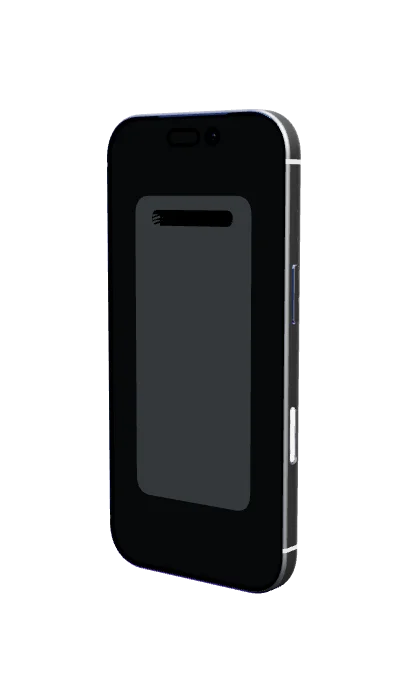
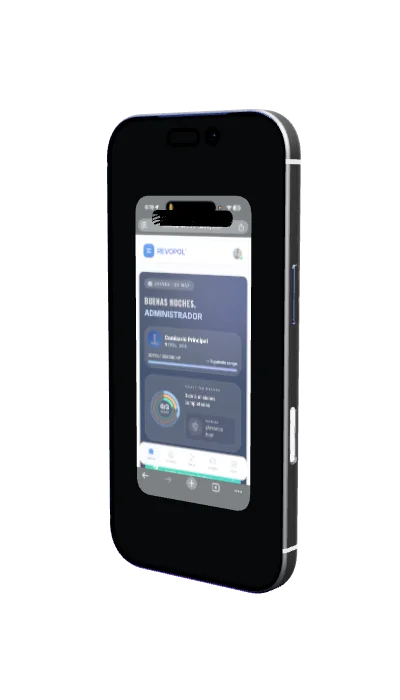
feat: iPhone frames with REAL Revopol campus screenshot — proper UVs and brightness

Changed region(s): [[0.33, 0.27, 0.63, 0.75]]

diff --git a/public/adjust-screen.html b/public/adjust-screen.html
@@ -48,8 +48,7 @@
     camera.position.set(0, 0, 0.42);
     const renderer = new THREE.WebGLRenderer({ antialias: true, alpha: true, preserveDrawingBuffer: true });
     renderer.setSize(viewEl.clientWidth, viewEl.clientHeight);
-    renderer.toneMapping = THREE.ACESFilmicToneMapping;
-    renderer.toneMappingExposure = 2.2;
+    renderer.toneMapping = THREE.NoToneMapping;
     renderer.outputColorSpace = THREE.SRGBColorSpace;
     viewEl.appendChild(renderer.domElement);
 
@@ -63,7 +62,7 @@
 
     const texLoader = new THREE.TextureLoader();
     const campusTex = await new Promise(r => texLoader.load('/campus-real.jpg', r));
-    campusTex.colorSpace = THREE.SRGBColorSpace;
+    // No colorSpace override — let it render as-is
 
     let model, screenPlane, diPlane, screenMat;
 
@@ -102,8 +101,10 @@
       model.rotation.x = 0.12;
       scene.add(model);
 
-      screenMat = new THREE.MeshBasicMaterial({ map: campusTex, toneMapped: false });
-      screenPlane = new THREE.Mesh(new THREE.ShapeGeometry(makeRoundedShape(0.058, 0.125, 0.003)), screenMat);
+      screenMat = new THREE.MeshBasicMaterial({ map: campusTex, toneMapped: false, color: 0xffffff });
+      const initGeo = new THREE.ShapeGeometry(makeRoundedShape(0.058, 0.125, 0.003));
+      fixUVs(initGeo, 0.058, 0.125);
+      screenPlane = new THREE.Mesh(initGeo, screenMat);
       screenPlane.position.set(0, 0, 0.0044);
       model.add(screenPlane);
 
@@ -114,6 +115,16 @@
 
       update();
     });
+
+    function fixUVs(geo, w, h) {
+      const pos = geo.attributes.position;
+      const uvs = new Float32Array(pos.count * 2);
+      for (let i = 0; i < pos.count; i++) {
+        uvs[i*2] = (pos.getX(i) + w/2) / w;
+        uvs[i*2+1] = (pos.getY(i) + h/2) / h;
+      }
+      geo.setAttribute('uv', new THREE.BufferAttribute(uvs, 2));
+    }
 
     function update() {
       if (!screenPlane) return;
@@ -134,7 +145,9 @@
       document.getElementById('vdi').textContent = diy.toFixed(4);
 
       screenPlane.geometry.dispose();
-      screenPlane.geometry = new THREE.ShapeGeometry(makeRoundedShape(w, h, cr));
+      const newGeo = new THREE.ShapeGeometry(makeRoundedShape(w, h, cr));
+      fixUVs(newGeo, w, h);
+      screenPlane.geometry = newGeo;
       screenPlane.position.set(px, py, pz);
 
       diPlane.geometry.dispose();
